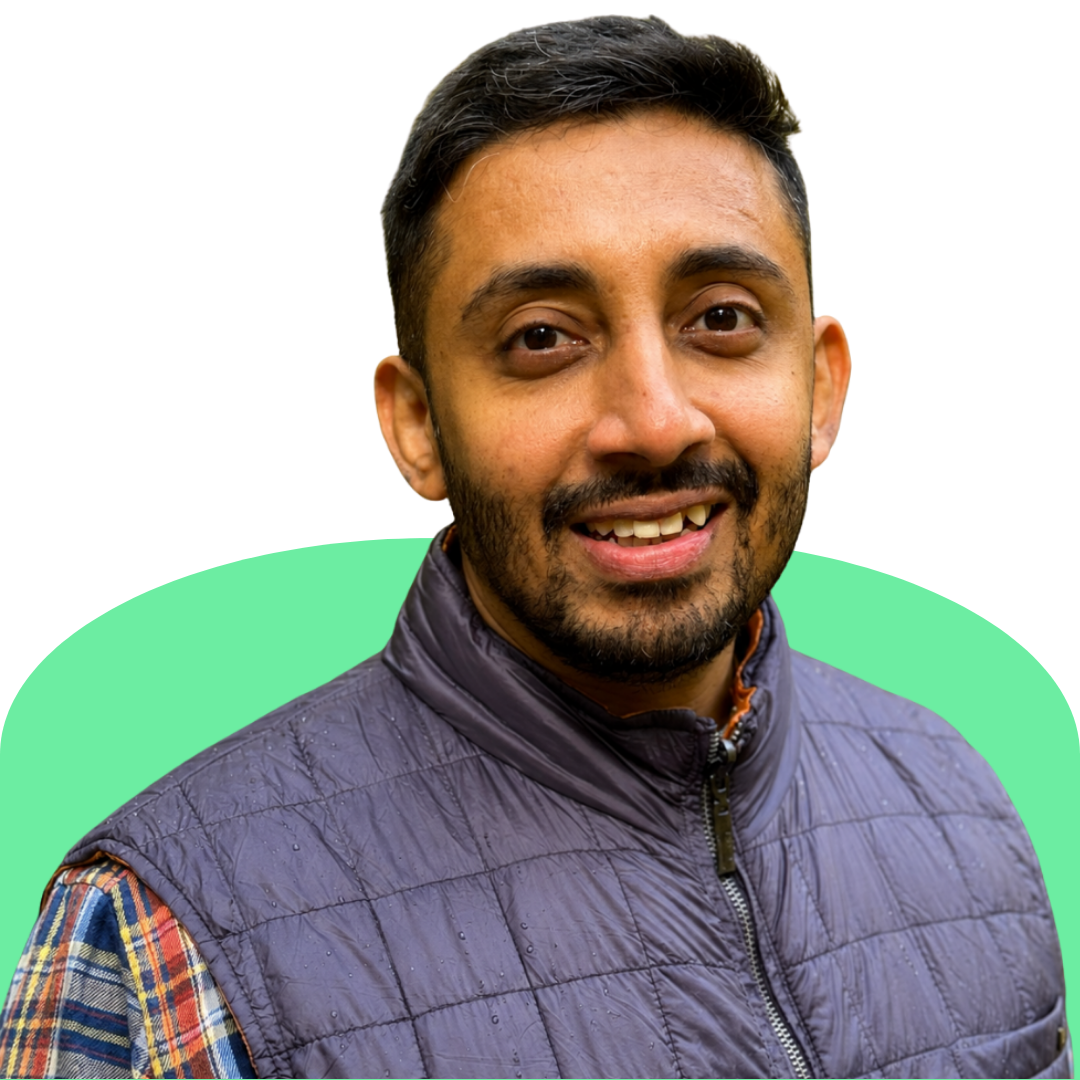
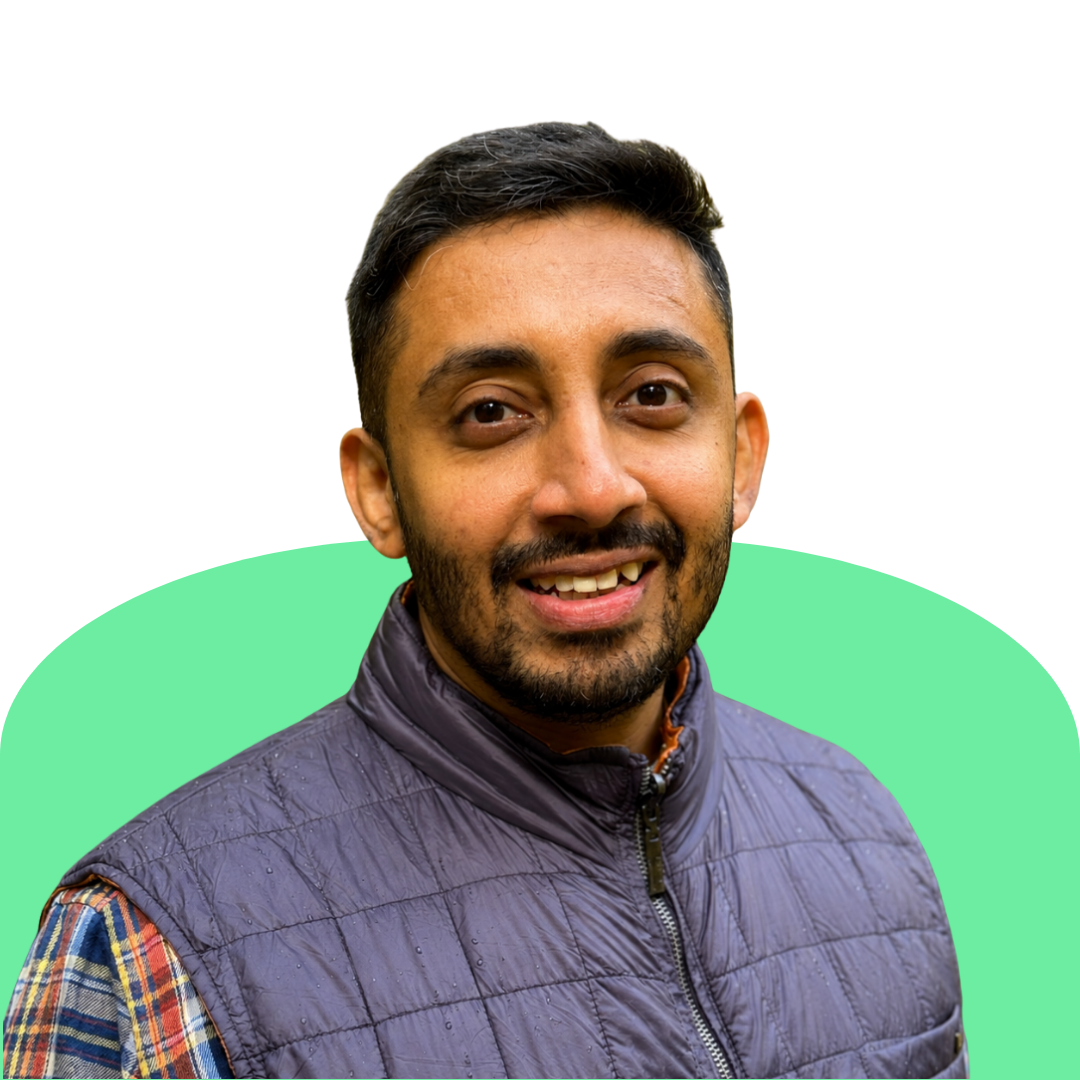
Reduce advisor card size 15%; update Seetha and Mrunal photos

diff --git a/public/summit/style.css b/public/summit/style.css
@@ -1085,8 +1085,11 @@ a {
 .speakers-grid {
   display: grid;
   grid-template-columns: 1fr;
-  gap: 2rem;
+  gap: 1.5rem;
   margin-top: 3rem;
+  max-width: 1060px;
+  margin-left: auto;
+  margin-right: auto;
 }
 
 @media (min-width: 640px) {
@@ -1153,20 +1156,20 @@ a {
 }
 
 .speaker-info {
-  padding: 1.5rem;
+  padding: 1.1rem 1.25rem;
   position: relative;
   z-index: 3;
   background-color: var(--bg-card);
 }
 
 .speaker-name {
-  font-size: 1.25rem;
+  font-size: 1.05rem;
   font-weight: 700;
-  margin-bottom: 0.25rem;
+  margin-bottom: 0.2rem;
 }
 
 .speaker-title {
-  font-size: 0.85rem;
+  font-size: 0.78rem;
   color: var(--text-muted);
   font-weight: 500;
 }
